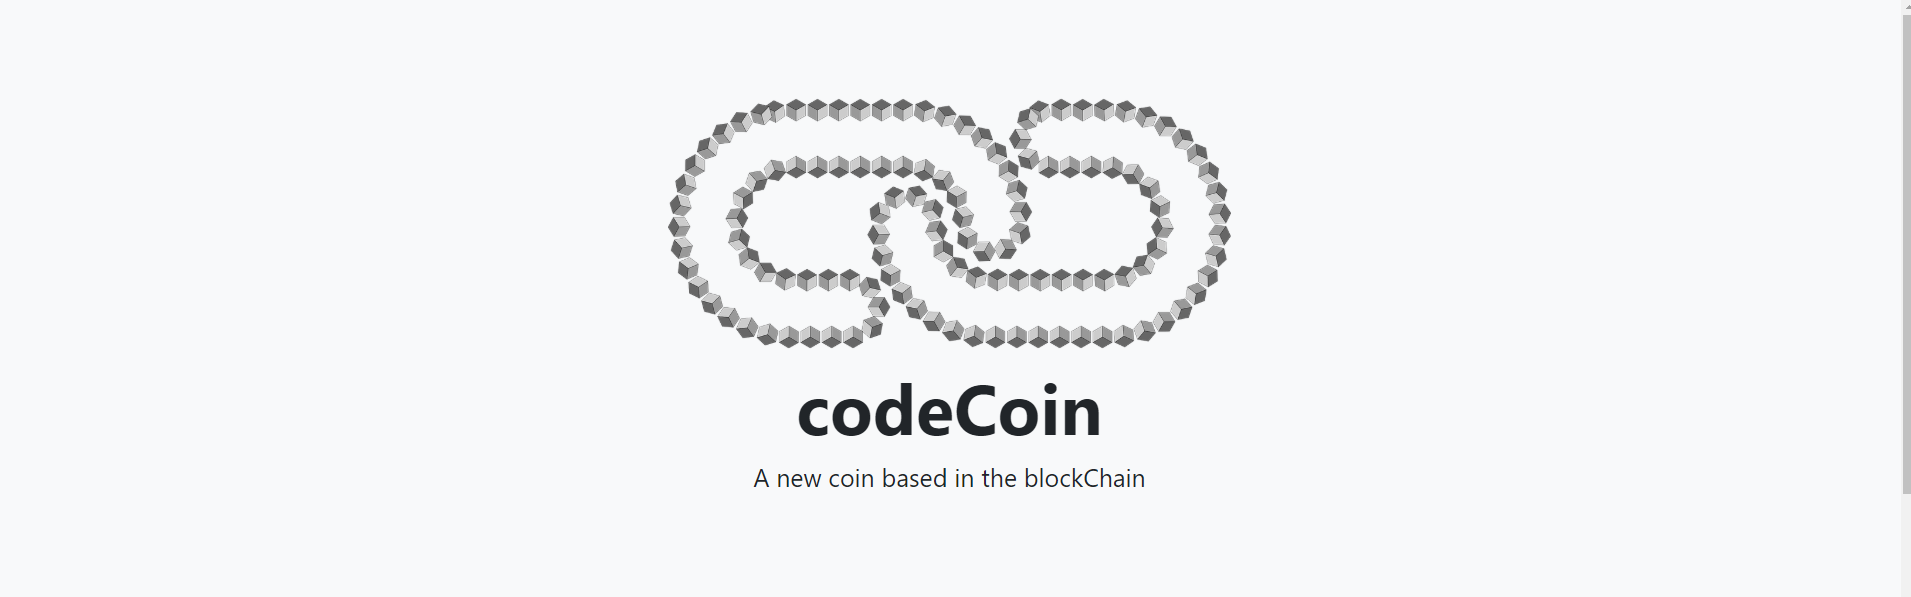
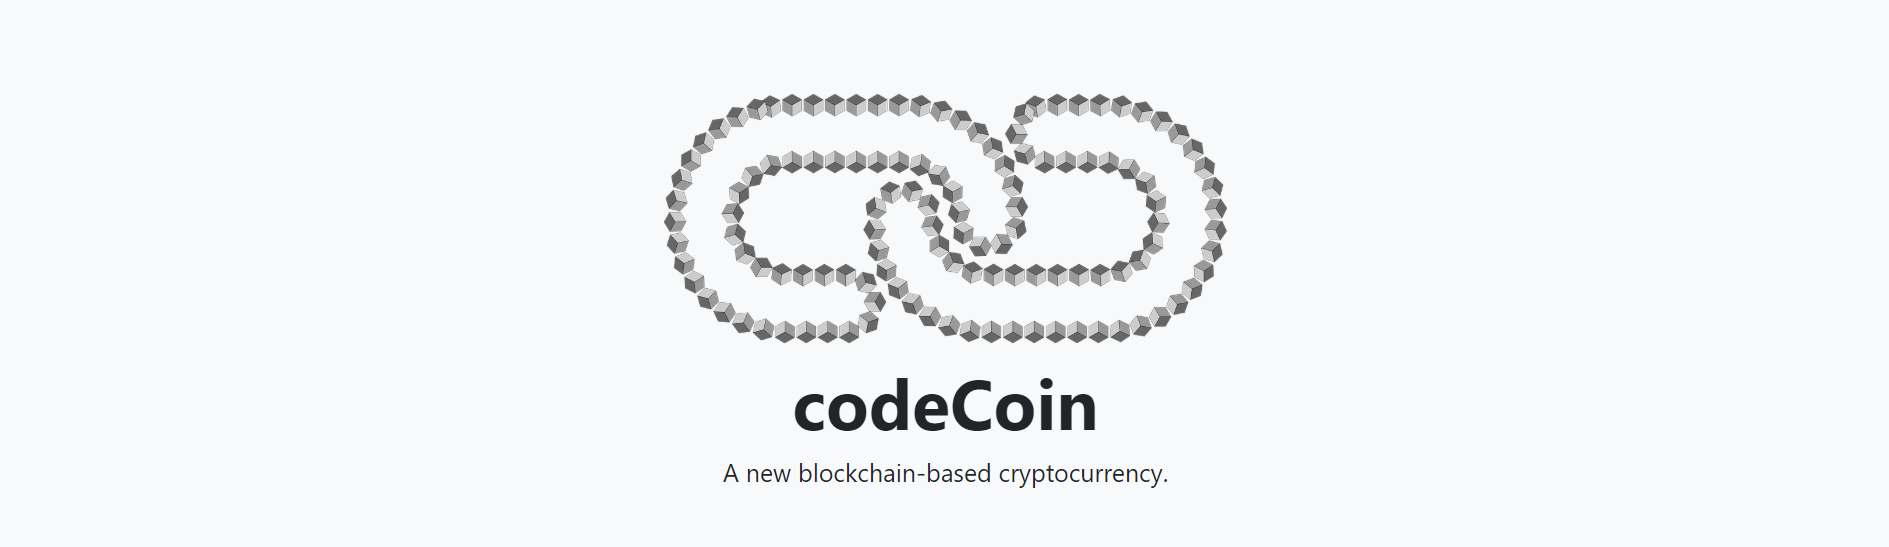
Readme

Changed region(s): [[0.3436, 0.1554, 0.6559, 0.9013], [0.9682, 0.0, 1.0, 0.8391]]

diff --git a/client/codecoin-react/src/components/NavBar/navBar.js b/client/codecoin-react/src/components/NavBar/navBar.js
@@ -8,7 +8,7 @@ function NavBar() {
       <div className="col-md-5 p-lg-3 mx-auto my-5">
         <img src="https://cdn.pixabay.com/photo/2018/02/18/20/48/bitcoin-3163494_960_720.png" style={{ maxWidth: 450 }} alt="" />
         <h1 className="display-4 font-weight-bold">codeCoin</h1>
-        <p className="lead font-weight-normal">A new coin based in the blockChain</p>
+        <p className="lead font-weight-normal">A new blockchain-based cryptocurrency.</p>
       </div>
     </div>
   );

diff --git a/client/codecoin-react/src/components/Banking/newUser/newUserKeys.js b/client/codecoin-react/src/components/Banking/newUser/newUserKeys.js
@@ -16,7 +16,7 @@ function Userkeys({ stateKeys }) {
       <div className="row">
         <div className="container mt-3">
           <h4>Private Key</h4>
-          <h6>Use this key to Check your balance.</h6>
+          <h6>Use this key to Sign and Send codeCoins.</h6>
           {
             stateKeys === [] ? "" : stateKeys.privateKey
           }

diff --git a/README.md b/README.md
@@ -1,1 +1,87 @@
-# codeCoin-solo-project
+<img src="img/codeCoin.png" width="500">
+
+## Built With
+
+### Front-end
+
+* [React](https://reactjs.org/)
+* [Bootstrap](https://getbootstrap.com/)
+
+### Back-end
+
+* [Javascript](https://www.javascript.com/)
+* [Nodejs](https://nodejs.org/en/)
+* [Peer-to-peer](https://es.wikipedia.org/wiki/Peer-to-peer)
+
+## What is Blockchain?
+
+* [Blockchain](https://en.wikipedia.org/wiki/Blockchain)
+
+## Getting Started
+
+### Prerequisites
+
+For this project you need:
+
+```
+Nodejs
+```
+
+### Installing
+
+Go to codeCoin-solo-project/server and run:
+
+```
+npm install
+```
+
+Now you can run the server. I recommend to run two servers in different ports. The connection P2P will link the different ports. You can use any port but remembre that later we will run react in port 3000. For example, run:
+
+```
+PORT=5000 nodemon index.js
+PORT=4000 nodemon index.js
+```
+
+<img src="img/codeCoinP2P.png">
+
+Now you can go to codeCoin-solo-project/client/codecoin-react and install all the react dependencies:
+
+```
+npm install
+```
+
+## Running React
+
+In the folder /codeCoin-solo-project/client/codecoin-react/src run:
+
+```
+npm start
+```
+
+Now you can use codeCoin!
+
+<img src="img/codeCoinBody.png">
+
+You can mine new blocks. If you are not familiar with blockchain-mining, check this documentation:
+
+* [Mining blocks](https://www.investopedia.com/terms/b/bitcoin-mining.asp)
+
+<img src="img/codeCoinMine.png" width="900">
+
+### Result
+
+If you open your terminal you will see the codeCoin-blockchain:
+
+<img src="img/codeCoinBlockChain.png">
+
+## Future Features
+
+I am working to create a data base with:
+
+* [MongoDB] (https://www.mongodb.com/)
+* [Redis] (https://redis.io/)
+
+
+## Author
+
+* **danisan9490**
